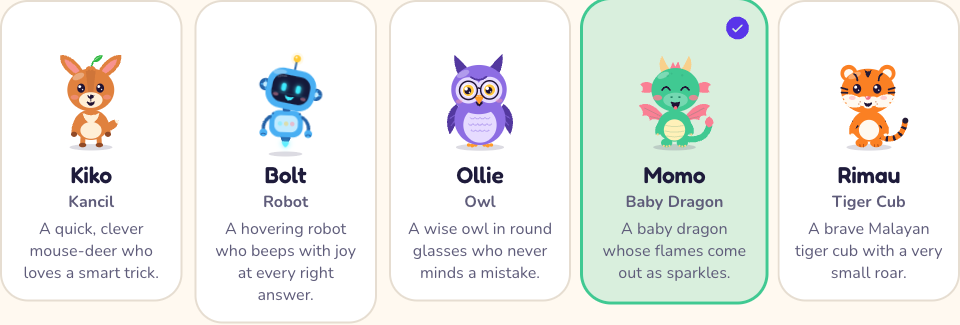
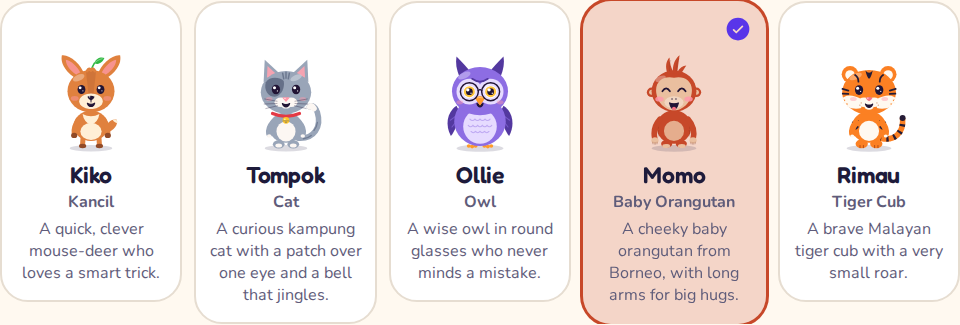
feat: Momo is a baby orangutan from Borneo, not a dragon
The dragon buddy was not liked. Momo is now a baby orangutan, a Malaysian
animal children love: rusty red fur, a tuft of hair that will not lie
down, a round peach face, and long arms for big hugs.

- The trick is a leaf umbrella: Momo holds a big leaf up high while rain
  patters down, the way real orangutans shelter from the rain. The flame
  particle and the dragon colours are gone; a raindrop takes their place.
- New lines and five true facts (orang hutan, "person of the forest";
  leafy nests every night; years with mum), a round "ooh-ooh" voice, and
  habits of their own: hugs, stretches, giggles.
- The key stays "momo", so a student who picked Momo keeps Momo with
  nothing to migrate.
- The README's buddies picture is taken again.

Claude-Session: https://claude.ai/code/session_016kU2YaCTWAKDiHma2GqcLx

diff --git a/frontend/src/features/buddies/rigs/Momo.tsx b/frontend/src/features/buddies/rigs/Momo.tsx
@@ -1,93 +1,102 @@
-/** Momo the baby dragon — soft mint scales, wings too small to fly with yet,
- *  and a puff of flame that comes out as sparkles. */
+/** Momo the baby orangutan — from the rainforests of Borneo: shaggy orange
+ *  fur, a tuft of hair that sticks straight up, a round peach face, and
+ *  arms long enough for the biggest hugs. When it rains, Momo holds a big
+ *  leaf over their head, the way real orangutans do. */
+import { AnimatePresence, motion } from 'motion/react'
+import { spring } from '@/motion'
 import { Frame, Joint } from './Rig'
-import { mirrored } from '../choreography'
 import { Cheeks, Eyes, Follow, Gloss, Mouth } from '../parts'
-import { paint, SHINE } from '../paint'
+import { INK, paint, pivot, SHINE } from '../paint'
 import type { RigProps } from '../types'
 
-const SCALE = paint('momo')
+const FUR = paint('momo')
 const DEEP = paint('momo-deep')
-const BELLY = paint('momo-belly')
-const WING = paint('momo-wing')
-const HORN = paint('momo-horn')
+const FACE = paint('momo-face')
+const LEAF = paint('momo-leaf')
 
-function Claws({ x }: { x: number }) {
+/** Four fingers at the end of a long arm, peach like the face. */
+function Hand({ x, y }: { x: number; y: number }) {
   return (
-    <g fill={HORN}>
-      <circle cx={x - 5} cy={185.5} r={1.9} />
-      <circle cx={x} cy={186.5} r={1.9} />
-      <circle cx={x + 5} cy={185.5} r={1.9} />
+    <g>
+      <ellipse cx={x} cy={y} rx={6.5} ry={5.5} fill={FACE} />
+      <path d={`M${x - 4} ${y + 3} l0 3 M${x - 1.3} ${y + 4} l0 3 M${x + 1.3} ${y + 4} l0 3 M${x + 4} ${y + 3} l0 3`} stroke={DEEP} strokeOpacity={0.35} strokeWidth={1.4} strokeLinecap="round" />
     </g>
   )
 }
 
 export function MomoRig({ mood, mouth, moves, gaze, blinking }: RigProps) {
   return (
-    <Frame moves={moves} shadow={38}>
-      <Joint move={moves.tail} at={[122, 168]}>
-        <path d="M116 172 C140 178 158 170 162 150" stroke={SCALE} strokeWidth={11} fill="none" strokeLinecap="round" />
-        <path d="M162 133 C171 138 173 147 162 153 C151 147 153 138 162 133 Z" fill={WING} />
-      </Joint>
+    <Frame moves={moves} shadow={40}>
+      {/* The leaf umbrella: only out for the trick, held up high. */}
+      <AnimatePresence>
+        {mood === 'trick' && (
+          <motion.g
+            key="umbrella"
+            style={pivot(144, 100)}
+            initial={{ scale: 0.2, opacity: 0, rotate: 20 }}
+            animate={{ scale: 1, opacity: 1, rotate: 0 }}
+            exit={{ scale: 0.2, opacity: 0, rotate: 20, transition: { duration: 0.25 } }}
+            transition={spring.bouncy}
+          >
+            <path d="M144 100 C142 80 134 60 118 44" stroke={DEEP} strokeWidth={2.6} fill="none" strokeLinecap="round" />
+            <path d="M58 46 C70 18 132 8 156 40 C146 36 138 40 132 46 C124 38 112 38 106 46 C98 38 86 38 80 46 C74 40 64 40 58 46 Z" fill={LEAF} />
+            <path d="M68 40 C88 22 124 18 146 36" stroke={SHINE} strokeOpacity={0.5} strokeWidth={1.8} fill="none" strokeLinecap="round" />
+            <path d="M106 46 L108 22 M80 46 L88 28 M132 46 L128 26" stroke={DEEP} strokeOpacity={0.25} strokeWidth={1.4} strokeLinecap="round" />
+          </motion.g>
+        )}
+      </AnimatePresence>
 
-      <Joint move={moves.extra} at={[80, 132]}>
-        <path d="M80 132 C66 112 48 106 36 114 C43 119 45 125 43 132 C50 129 56 133 56 140 C62 136 70 138 78 142 Z" fill={WING} />
-        <path d="M78 134 L47 118 M78 138 L56 133" stroke={DEEP} strokeOpacity={0.22} strokeWidth={1.8} strokeLinecap="round" />
-      </Joint>
-      <Joint move={mirrored(moves.extra)} at={[120, 132]}>
-        <path d="M120 132 C134 112 152 106 164 114 C157 119 155 125 157 132 C150 129 144 133 144 140 C138 136 130 138 122 142 Z" fill={WING} />
-        <path d="M122 134 L153 118 M122 138 L144 133" stroke={DEEP} strokeOpacity={0.22} strokeWidth={1.8} strokeLinecap="round" />
-      </Joint>
+      <ellipse cx={87} cy={180} rx={10} ry={7} fill={FUR} />
+      <ellipse cx={113} cy={180} rx={10} ry={7} fill={FUR} />
+      <ellipse cx={86} cy={184} rx={7} ry={3.6} fill={FACE} />
+      <ellipse cx={114} cy={184} rx={7} ry={3.6} fill={FACE} />
 
-      <ellipse cx={86} cy={180} rx={10} ry={8} fill={SCALE} />
-      <ellipse cx={114} cy={180} rx={10} ry={8} fill={SCALE} />
-      <Claws x={86} />
-      <Claws x={114} />
-
-      <ellipse cx={100} cy={150} rx={30} ry={28} fill={SCALE} />
-      <ellipse cx={100} cy={157} rx={19} ry={19} fill={BELLY} />
-      <g stroke={DEEP} strokeOpacity={0.18} strokeWidth={1.8} fill="none" strokeLinecap="round">
-        <path d="M84 149 Q100 153 116 149" />
-        <path d="M82.5 159 Q100 163 117.5 159" />
-        <path d="M86 168 Q100 171 114 168" />
+      <ellipse cx={100} cy={150} rx={31} ry={30} fill={FUR} />
+      <ellipse cx={100} cy={157} rx={18} ry={18} fill={FACE} opacity={0.85} />
+      {/* Shaggy fur along the sides. */}
+      <g stroke={DEEP} strokeOpacity={0.28} strokeWidth={1.8} fill="none" strokeLinecap="round">
+        <path d="M72 142 q-3 5 0 10 M73 156 q-3 5 0 10" />
+        <path d="M128 142 q3 5 0 10 M127 156 q3 5 0 10" />
       </g>
 
-      <Joint move={moves.head} at={[100, 128]}>
+      <Joint move={moves.head} at={[100, 124]}>
         <Follow gaze={gaze}>
-          <path d="M76 58 C70 46 70 34 76 25 C80 35 86 44 91 52 Z" fill={HORN} />
-          <path d="M124 58 C130 46 130 34 124 25 C120 35 114 44 109 52 Z" fill={HORN} />
-          <path d="M91 50 L95.5 38 L100 47 L104.5 37 L109 50 Z" fill={WING} strokeLinejoin="round" stroke={WING} strokeWidth={2} />
-
-          <Joint move={moves.earL} at={[62, 84]}>
-            <path d="M63 78 C51 69 42 71 37 77 C43 80 43 86 39 90 C47 93 56 91 63 88 Z" fill={WING} />
+          <Joint move={moves.earL} at={[60, 88]}>
+            <circle cx={60} cy={88} r={8.5} fill={FUR} />
+            <circle cx={60} cy={88} r={4.5} fill={FACE} />
           </Joint>
-          <Joint move={moves.earR} at={[138, 84]}>
-            <path d="M137 78 C149 69 158 71 163 77 C157 80 157 86 161 90 C153 93 144 91 137 88 Z" fill={WING} />
+          <Joint move={moves.earR} at={[140, 88]}>
+            <circle cx={140} cy={88} r={8.5} fill={FUR} />
+            <circle cx={140} cy={88} r={4.5} fill={FACE} />
           </Joint>
 
-          <ellipse cx={100} cy={86} rx={43} ry={39} fill={SCALE} />
-          <Gloss cx={78} cy={60} rx={11} ry={5} />
-          <g fill={DEEP} opacity={0.2}>
-            <circle cx={86} cy={61} r={2} />
-            <circle cx={93} cy={57} r={1.6} />
-            <circle cx={112} cy={60} r={2} />
-          </g>
-          <ellipse cx={100} cy={104} rx={22} ry={13} fill={SHINE} opacity={0.28} />
-          <ellipse cx={93} cy={99} rx={2.1} ry={1.5} fill={DEEP} />
-          <ellipse cx={107} cy={99} rx={2.1} ry={1.5} fill={DEEP} />
-          <Cheeks mood={mood} left={[68, 100]} right={[132, 100]} rx={7} colour={WING} />
-          <Eyes mood={mood} gaze={gaze} blinking={blinking} left={[83, 84]} right={[117, 84]} size={9.5} />
-          <Mouth shape={mouth} cx={100} cy={110} width={14} />
+          <ellipse cx={100} cy={86} rx={40} ry={37} fill={FUR} />
+          {/* The famous tuft: hair that will not lie down. */}
+          <Joint move={moves.extra} at={[100, 52]}>
+            <path d="M88 54 C84 42 86 32 92 26 C92 36 95 44 98 50 C98 38 102 28 110 22 C108 34 107 44 106 52 C110 44 116 40 122 40 C118 46 114 52 112 56 Z" fill={FUR} />
+            <path d="M92 50 C91 42 92 36 94 31 M104 49 C104 40 106 33 109 28" stroke={DEEP} strokeOpacity={0.25} strokeWidth={1.4} fill="none" strokeLinecap="round" />
+          </Joint>
+          <Gloss cx={76} cy={64} rx={10} ry={5} />
+
+          {/* A round peach face with a soft muzzle. */}
+          <path d="M100 62 C84 58 68 66 68 84 C68 104 82 120 100 120 C118 120 132 104 132 84 C132 66 116 58 100 62 Z" fill={FACE} />
+          <ellipse cx={100} cy={106} rx={17} ry={11} fill={SHINE} opacity={0.35} />
+          <Cheeks mood={mood} left={[74, 100]} right={[126, 100]} rx={6.5} />
+          <Eyes mood={mood} gaze={gaze} blinking={blinking} left={[86, 84]} right={[114, 84]} size={9} />
+          <ellipse cx={96.5} cy={100} rx={1.7} ry={1.3} fill={INK} opacity={0.7} />
+          <ellipse cx={103.5} cy={100} rx={1.7} ry={1.3} fill={INK} opacity={0.7} />
+          <Mouth shape={mouth} cx={100} cy={109} width={15} />
         </Follow>
       </Joint>
 
-      <Joint move={moves.armL} at={[77, 144]}>
-        <path d="M77 144 C71 150 69 156 70 162" stroke={SCALE} strokeWidth={9} fill="none" strokeLinecap="round" />
-        <circle cx={70} cy={165} r={2} fill={HORN} />
+      {/* Long arms, down to the knees. */}
+      <Joint move={moves.armL} at={[75, 136]}>
+        <path d="M75 136 C66 146 63 160 66 172" stroke={FUR} strokeWidth={10} fill="none" strokeLinecap="round" />
+        <Hand x={66} y={174} />
       </Joint>
-      <Joint move={moves.armR} at={[123, 144]}>
-        <path d="M123 144 C129 150 131 156 130 162" stroke={SCALE} strokeWidth={9} fill="none" strokeLinecap="round" />
-        <circle cx={130} cy={165} r={2} fill={HORN} />
+      <Joint move={moves.armR} at={[125, 136]}>
+        <path d="M125 136 C134 146 137 160 134 172" stroke={FUR} strokeWidth={10} fill="none" strokeLinecap="round" />
+        <Hand x={134} y={174} />
       </Joint>
     </Frame>
   )

diff --git a/frontend/src/features/buddies/voices.ts b/frontend/src/features/buddies/voices.ts
@@ -105,27 +105,27 @@ export const VOICES: Record<BuddyKey, Voice> = {
     sleepy: 'Owls sleep in the day... zzz...',
   },
   momo: {
-    hello: ['Puff! Ready to fire up our brains?', 'Rawr... I mean, hello!', 'My wings are tiny but my brain is big!'],
-    tap: ['Hehe! Want to see a tiny flame?', 'Puff puff!', 'One day I\'ll fly. Today I learn!', 'Dragons love shiny facts!'],
-    correct: ['Fire! That was hot!', 'Sparkle-tastic!', 'Puff! You got it!', 'Dragon-level smart!'],
-    wrong: ['Oops! Even dragons miss. Try the next one!', 'No worries, puff it away!', 'That one\'s sneaky. Keep going!'],
-    streak: ['{n} in a row! You\'re on fire!', 'Puff puff! {n} straight!'],
-    knew: ['Into the treasure pile!', 'Shiny! You knew it!'],
-    notYet: ['We\'ll warm up to it in round two.', 'Back in the pile it goes!'],
+    hello: ['Ooh-ooh! Ready to swing into learning?', 'Let\'s climb to the top of the learning tree together!', 'Hug first, then learn? Ooh-ooh!'],
+    tap: ['Ooh-ooh! That tickles!', 'Want to see my leaf umbrella?', 'My arms are extra long — perfect for hugs!', 'I\'m from the rainforests of Borneo!'],
+    correct: ['Ooh-ooh! You got it!', 'Swinging good answer!', 'Top of the tree!', 'Brilliant! Big orangutan hug!'],
+    wrong: ['Oops! Even orangutans miss a branch. Next one!', 'No worries — grab the next branch!', 'That one was slippery. Keep swinging!'],
+    streak: ['{n} in a row! Swinging high!', 'Ooh-ooh! {n} straight!'],
+    knew: ['Into the nest it goes!', 'Ooh! You knew it!'],
+    notYet: ['We\'ll swing back to it in round two.', 'Back in the basket it goes!'],
     finish: {
-      great: ['You\'re a legend! Dragon dance!', 'Sparkles everywhere! Amazing!'],
-      good: ['Great flying! Almost a full treasure pile!', 'Nice! A bit more practice and you\'ll soar.'],
-      keep: ['Baby dragons grow a little every day. So do you!', 'You finished! That takes courage.'],
+      great: ['You\'re the star of the rainforest! Amazing!', 'Ooh-ooh! That was brilliant!'],
+      good: ['Great climbing! Nearly at the top!', 'Nice! A little more practice and you\'ll reach the treetops.'],
+      keep: ['Baby orangutans learn a little every day. So do you!', 'You finished! That takes a brave heart.'],
     },
-    nudge: ['Take a big breath, like a baby dragon. Puff!', 'Read it once more. Slowly does it!', 'No rush. Dragons are patient!'],
-    halfway: ['Halfway there! Puff puff!', 'Half your treasure found!'],
-    last: ['Last one! Make it sparkle!', 'Final one. Fire up!'],
-    comeback: ['Puff! Right back on track!', 'Sparkle! You bounced back!'],
-    tough: ['Sneaky ones! Here\'s a dragon trick:', 'Two tricky ones. Try this:'],
-    facts: ["Did you know? My flames come out as sparkles, so they're safe for hugs!", 'Dragons in stories love treasure. My treasure is facts!', 'Baby dragons practise flying a little every day — like you practise learning.', 'Some real lizards, called flying dragons, glide between trees in Malaysia!', 'Sparkly tip: take a short break, then try again. Your brain loves it.'],
-    cheers: ["You're on fire today — the sparkly kind!", 'Little by little, like a baby dragon learning to fly.', 'Puff puff! You can do it!'],
-    secret: 'You found the secret dragon dance!',
-    sleepy: 'So cosy... zzz...',
+    nudge: ['Take your time. Orangutans think before they swing!', 'Read it once more. Slowly does it!', 'No rush. We have all day in the forest.'],
+    halfway: ['Halfway up the tree! Ooh-ooh!', 'Half done. Keep climbing!'],
+    last: ['Last branch! You can do it!', 'Final one. Swing for it!'],
+    comeback: ['Ooh-ooh! Right back on the branch!', 'See? You swung right back!'],
+    tough: ['Slippery ones! Here\'s an orangutan trick:', 'Two tricky ones. Try this:'],
+    facts: ['Did you know? When it rains, orangutans hold big leaves over their heads like umbrellas!', "Orangutan comes from Malay: orang hutan, 'person of the forest'!", 'Every night, orangutans build a brand-new bed of leaves up in the trees.', 'Baby orangutans stay with their mums for years, learning a little every day — just like you!', 'Wild orangutans live only in Borneo and Sumatra. Sabah and Sarawak are part of Borneo!'],
+    cheers: ["You're swinging along nicely today!", 'Little by little, branch by branch. You can do it!', 'Ooh-ooh! I believe in you!'],
+    secret: 'Ooh-ooh! You found my secret jungle dance!',
+    sleepy: 'Time to build my leafy nest... zzz...',
   },
   rimau: {
     hello: ['Rawr! Let\'s be brave today!', 'Harimau power! Ready?', 'I\'ve been practising my roar!'],

diff --git a/frontend/src/features/buddies/profiles.ts b/frontend/src/features/buddies/profiles.ts
@@ -35,7 +35,7 @@ export interface BuddyProfile {
   antics: readonly Mood[]
 }
 
-const PUFF = once(1.4, { times: [0, 0.3, 0.45, 0.85, 1] })
+const UMBRELLA = once(1.8, { times: [0, 0.2, 0.5, 0.85, 1] })
 const ROAR = once(1.3, { times: [0, 0.2, 0.4, 0.8, 1] })
 const NO_SPIN = { rotate: 0 }
 
@@ -111,25 +111,28 @@ export const BUDDIES: Record<BuddyKey, BuddyProfile> = {
   momo: {
     key: 'momo',
     name: 'Momo',
-    species: 'baby dragon',
-    tagline: 'A baby dragon whose flames come out as sparkles.',
-    trick: 'Puff',
+    species: 'baby orangutan',
+    tagline: 'A cheeky baby orangutan from Borneo, with long arms for big hugs.',
+    trick: 'Leaf umbrella',
     Rig: MomoRig,
     signature: {
-      idle: { extra: { rotate: [0, -10, 0], transition: loop(1.8) } },
+      // The tuft of hair never quite lies down.
+      idle: { extra: { rotate: [0, -8, 0, 6, 0], transition: loop(2.6) } },
+      // Up goes a big leaf, held high while the rain patters down.
       trick: {
         spin: NO_SPIN,
-        head: { rotate: [null, -14, 10, 10, 0], transition: PUFF },
-        body: { scaleY: [null, 1.08, 0.94, 0.96, 1], scaleX: [null, 0.96, 1.05, 1.03, 1], transition: PUFF },
-        ...arms([null, 30, 60, 60, 0], PUFF),
-        extra: { rotate: [null, -30, 5, -30, 0], transition: PUFF },
+        body: { y: [null, -6, 0, -3, 0], transition: UMBRELLA },
+        head: { rotate: [null, -8, -8, 6, 0], transition: UMBRELLA },
+        armR: { rotate: [null, -140, -140, -140, 0], transition: UMBRELLA },
+        armL: { rotate: [null, 20, 10, 20, 0], transition: UMBRELLA },
+        extra: { rotate: [null, -12, 10, -8, 0], transition: UMBRELLA },
       },
     },
-    mouths: { trick: 'roar' },
-    anchors: { top: [100, 28], side: [140, 56], mouth: [112, 112], body: [100, 142] },
-    trickBurst: { kind: 'flame', count: 7, from: 'mouth', delayMs: 500 },
-    face: '36 18 128 128',
-    antics: ['bounce', 'giggle', 'twirl', 'dance', 'hug', 'wiggle', 'happy'],
+    mouths: { trick: 'grin' },
+    anchors: { top: [100, 22], side: [142, 58], mouth: [100, 110], body: [100, 142] },
+    trickBurst: { kind: 'drop', count: 9, from: 'top', delayMs: 300 },
+    face: '42 14 116 116',
+    antics: ['hug', 'stretch', 'lookaround', 'giggle', 'wave', 'bounce', 'think'],
   },
   rimau: {
     key: 'rimau',

diff --git a/frontend/src/features/buddies/particles.tsx b/frontend/src/features/buddies/particles.tsx
@@ -19,7 +19,7 @@ export type ParticleKind =
   | 'sweat'
   | 'question'
   | 'confetti'
-  | 'flame'
+  | 'drop'
   | 'ring'
   | 'paw'
   | 'leaf'
@@ -82,8 +82,11 @@ function flight(kind: ParticleKind, i: number, n: number): Flight {
         life: between(1.4, 2.2),
         delay: between(0, 0.3),
       }
-    case 'flame':
-      return { x: [0, between(46, 78)], y: [0, between(-16, 12)], rotate: between(-30, 30), scale: between(1, 1.6), life: 0.7, delay: i * 0.05 }
+    case 'drop': {
+      // Rain, pattering down around the leaf umbrella and past it.
+      const x = between(-62, 62)
+      return { x: [x, x + between(-4, 4)], y: [between(-40, -20), between(40, 70)], rotate: 0, scale: between(0.8, 1.2), life: between(0.7, 1), delay: i * 0.09 }
+    }
     case 'ring':
       return { x: [0, 0], y: [0, 0], rotate: 0, scale: 2.6, life: 0.85, delay: i * 0.16 }
     case 'leaf':
@@ -132,8 +135,8 @@ function Shape({ kind, tint }: { kind: ParticleKind; tint: number }) {
       )
     case 'confetti':
       return <rect x={-3} y={-1.8} width={6} height={3.6} rx={1} fill={`hsl(${TINTS[tint % TINTS.length]})`} />
-    case 'flame':
-      return <path d="M0 -7 Q6 0 4 4 Q0 8 -4 4 Q-6 0 0 -7 Z" fill={paint('momo-flame')} />
+    case 'drop':
+      return <path d="M0 -7 Q5 1 3.4 4 Q0 7.5 -3.4 4 Q-5 1 0 -7 Z" fill={paint('momo-drop')} />
     case 'ring':
       return <circle r={9} fill="none" stroke="hsl(var(--star))" strokeWidth={2.4} />
     case 'paw':

diff --git a/frontend/src/styles/theme.css b/frontend/src/styles/theme.css
@@ -157,12 +157,11 @@
   --buddy-ollie-beak: 32 100% 58%;
   --buddy-ollie-iris: 42 100% 62%;
 
-  --buddy-momo: 156 56% 52%;          /* Momo the baby dragon: mint scales */
-  --buddy-momo-deep: 162 58% 32%;
-  --buddy-momo-belly: 48 100% 86%;
-  --buddy-momo-wing: 350 92% 74%;
-  --buddy-momo-horn: 38 88% 76%;
-  --buddy-momo-flame: 30 100% 58%;
+  --buddy-momo: 12 66% 47%;           /* Momo the baby orangutan: rusty red fur */
+  --buddy-momo-deep: 10 62% 28%;
+  --buddy-momo-face: 26 64% 77%;
+  --buddy-momo-leaf: 132 50% 38%;
+  --buddy-momo-drop: 204 86% 62%;
 
   --buddy-rimau: 26 96% 56%;          /* Rimau the tiger cub: jungle orange */
   --buddy-rimau-deep: 20 80% 38%;

diff --git a/frontend/src/features/buddies/sounds.ts b/frontend/src/features/buddies/sounds.ts
@@ -29,7 +29,8 @@ export const TONES: Record<BuddyKey, Tone> = {
   kiko: { base: 760, wave: 'triangle', spread: 0.35, step: 0.075, loud: 0.12 },
   tompok: { base: 680, wave: 'sine', spread: 0.45, step: 0.11, loud: 0.14 },
   ollie: { base: 340, wave: 'sine', spread: 0.2, step: 0.13, loud: 0.16 },
-  momo: { base: 620, wave: 'sine', spread: 0.3, step: 0.085, loud: 0.14 },
+  // A soft, round "ooh-ooh": low-ish, sliding, and warm.
+  momo: { base: 460, wave: 'sine', spread: 0.4, step: 0.1, loud: 0.15 },
   rimau: { base: 250, wave: 'sawtooth', spread: 0.25, step: 0.1, loud: 0.05 },
 }
 

diff --git a/docs/features/031-study-buddies.md b/docs/features/031-study-buddies.md
@@ -9,7 +9,7 @@ Five companions keep a student company:
 | Kiko | kancil |
 | Tompok | cat (a grey kampung cat with a patch over one eye, a red collar and a gold bell) |
 | Ollie | owl |
-| Momo | baby dragon |
+| Momo | baby orangutan, from the rainforests of Borneo (updated 2026-09-30: Momo was a baby dragon, and is now a Malaysian animal) |
 | Rimau | Malayan tiger cub |
 
 - **A student picks one on their first visit** (`Welcome.tsx`) and can change
@@ -29,7 +29,7 @@ Five companions keep a student company:
     - Kiko looks around, hops and peeks.
     - Tompok stretches, yawns and twirls.
     - Ollie nods, thinks and hugs.
-    - Momo bounces, giggles and dances.
+    - Momo hugs, stretches and giggles, and the tuft of hair on top never lies down.
     - Rimau flexes and star-jumps.
   - has 25 moves: the six newest are twirl, star jump, hug, flex, look
     around and giggle, and all of them are on the *My buddy* page, with a
@@ -59,7 +59,7 @@ Five companions keep a student company:
   | Kiko | backflip, with falling leaves |
   | Tompok | chases her own tail, leaving paw prints |
   | Ollie | wing flutter, with drifting feathers |
-  | Momo | puff of flame, which comes out as sparks |
+  | Momo | leaf umbrella: a big leaf held up high while rain patters down, the way real orangutans shelter from the rain |
   | Rimau | roar, with shockwave rings |
 
   Five quick taps unlock a secret dance.
@@ -88,7 +88,7 @@ Five companions keep a student company:
   - a soft *aww* for a miss
   - a two-note hello
   - a babble under every bubble, about a syllable a word, in the buddy's own
-    pitch (Kiko quick and high, Tompok mewing, Ollie a low hoot, Momo soft,
+    pitch (Kiko quick and high, Tompok mewing, Ollie a low hoot, Momo a round ooh-ooh,
     Rimau gruff)
 
   A buddy is quiet while it fidgets or sleeps. No sound plays until the
@@ -186,6 +186,10 @@ sound.
   `particles.tsx`.
 
 ## Known limits
+
+- **Momo kept the key `momo`** when the dragon became an orangutan, so a
+  student who had picked Momo still has Momo, now an orangutan, with nothing
+  to migrate. Their buddy changed without them choosing it.
 
 - **A buddy babbles; it doesn't speak words.** Its lines are read on screen,
   with a babble under them. Speaking them in a recorded voice would put a

diff --git a/README.md b/README.md
@@ -34,7 +34,7 @@ makes from the bits they found tricky. They don't make sets themselves.
 | ![Flashcards: a card flipped to its back, with Knew it and Not yet](docs/screenshots/flashcards.png) | ![A live leaderboard podium with each student's buddy](docs/screenshots/leaderboard.png) |
 | **Flashcards that flip.** Cards you did not know come back for a second round. | **Live leaderboards** for every quiz — first tries only, ties share a place. |
 
-![Five study buddies: Kiko the kancil, Tompok the cat, Ollie the owl, Momo the baby dragon and Rimau the tiger cub](docs/screenshots/buddies.png)
+![Five study buddies: Kiko the kancil, Tompok the cat, Ollie the owl, Momo the baby orangutan and Rimau the tiger cub](docs/screenshots/buddies.png)
 
 **Five study buddies** — Kiko, Tompok, Ollie, Momo and Rimau — each with their
 own voice, moves, tricks and sounds (a babble in their own pitch under every
